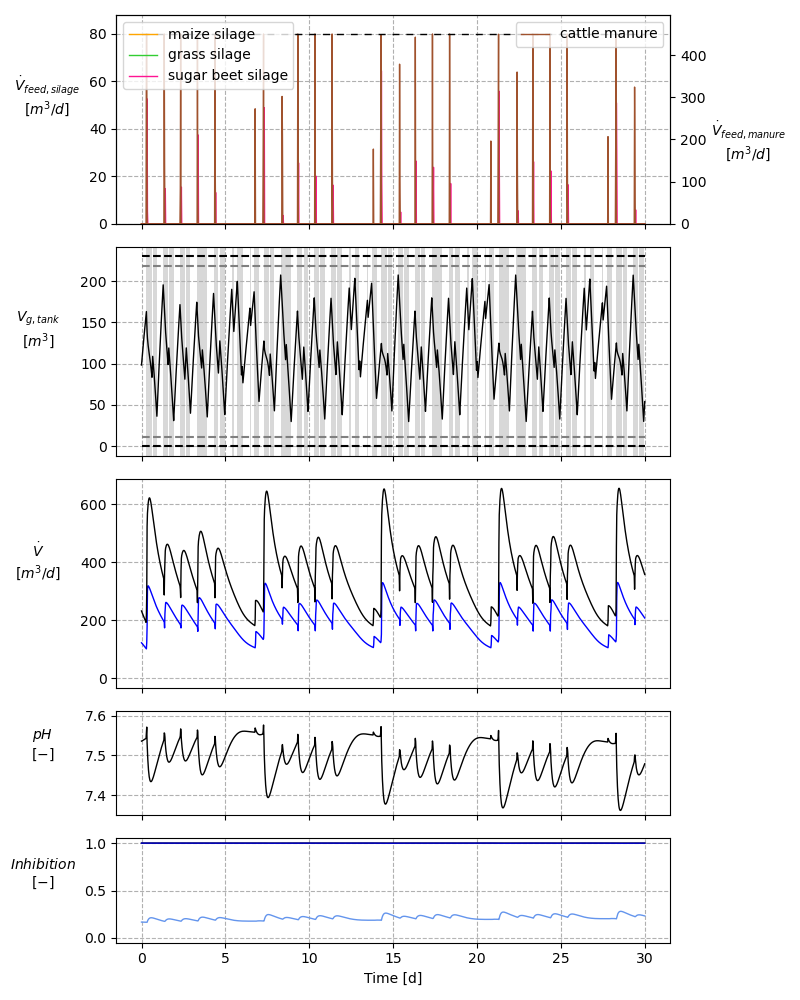
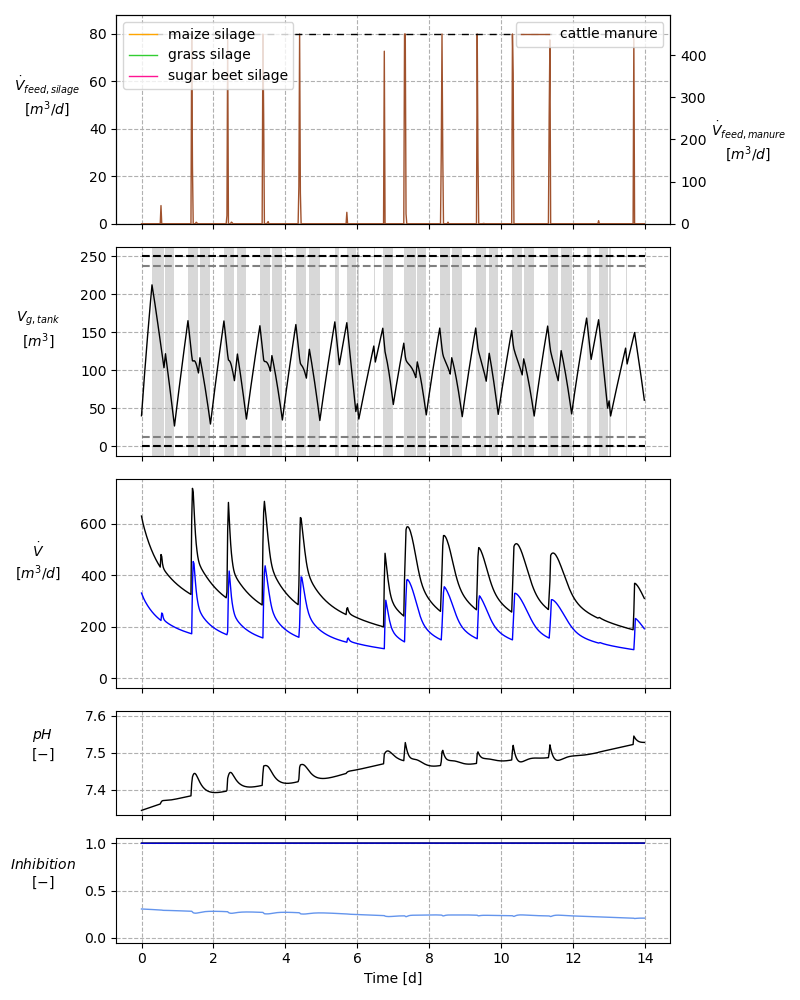
get Sc. 2a nominal ideal running with high OLR from SS

diff --git a/ad_meal_prep_control/scenarios/scenario_2a_nominal_ideal.py b/ad_meal_prep_control/scenarios/scenario_2a_nominal_ideal.py
@@ -10,8 +10,8 @@ from ad_meal_prep_control.params_R3 import P_el_chp
 import numpy as np
 
 fill_level_setpoint = 0.4
-lterm = (f"(0.5*(model.x['x_19'] + model.x['x_20'] + model.aux['V_H2O']/V_GAS_STORAGE_MAX - {fill_level_setpoint})**2 +"
-         f"+ 50*(model.x['x_19'] + model.x['x_20'] + model.aux['V_H2O']/V_GAS_STORAGE_MAX - {fill_level_setpoint})**4)"
+lterm = (f"(5*(model.x['x_19'] + model.x['x_20'] + model.aux['V_H2O']/V_GAS_STORAGE_MAX - {fill_level_setpoint})**2 +"
+         f"+ 5e-1 *(model.x['x_19'] + model.x['x_20'] + model.aux['V_H2O']/V_GAS_STORAGE_MAX - {fill_level_setpoint})**4)"
          )
 
 mterm = "model.tvp['dummy_tvp']"
@@ -19,12 +19,12 @@ mterm = "model.tvp['dummy_tvp']"
 cost_func = CostFunction(lterm=lterm, mterm=mterm)
 
 # user input:
-n_days_mpc = 30  # length of simulation [d]
+n_days_mpc = 14  # length of simulation [d]
 n_std_dev = 0  # number std deviations
 t_stp_ahead_pred = 8  # for controller plotting
 
 controller_params = ControllerParams(
-    mpc_n_horizon=40,
+    mpc_n_horizon=48,
     mpc_n_robust=0,
     num_std_devs=n_std_dev,
     cost_func=cost_func,

diff --git a/ad_meal_prep_control/mpc.py b/ad_meal_prep_control/mpc.py
@@ -83,7 +83,7 @@ def mpc_setup(
                     for dictated_sub in dictated_sub_properties:
                         start_time = dictated_sub[0]
                         end_time = dictated_sub[1]
-                        feed_amount = dictated_sub[2]
+                        feed_amount = dictated_sub[2]  # __SH: normalized
 
                         time_k = t_now + t_step * k
                         if time_k >= start_time and time_k < end_time:
@@ -197,7 +197,7 @@ def mpc_setup(
         if rterm is None:
             rterm = sub_cost_rterm  # only consider substrate costs in rterm
         else:
-            rterm += f" + {sub_cost_rterm}"  # consider substrate cost additionally in rterm
+            rterm += f" + {sub_cost_rterm}"  # add substrate cost to existing rterm
 
     if rterm is not None:
         mpc.set_rterm(rterm=eval(rterm))

diff --git a/ad_meal_prep_control/simulation.py b/ad_meal_prep_control/simulation.py
@@ -172,7 +172,7 @@ class Simulation:
             self._substrate_setup()
             self._model_setup()
 
-            # GS is super full in SS since no CHP outflow considered. Hence use pre-saved values:
+            # __SH: GS is super full in SS since no CHP outflow considered -> use pre-saved values for norm. GS states:
             if self.scenario.external_gas_storage_model:
                 self.x0_norm_true[18] = self._v_ch4_norm_true_0
                 self.x0_norm_true[19] = self._v_co2_norm_true_0

diff --git a/ad_meal_prep_control/simulator.py b/ad_meal_prep_control/simulator.py
@@ -42,7 +42,7 @@ def simulator_setup(
                 for dictated_sub in dictated_sub_properties:
                     start_time = dictated_sub[0]
                     end_time = dictated_sub[1]
-                    feed_amount = dictated_sub[2]
+                    feed_amount = dictated_sub[2]  # __SH: normalized
                     if t_now >= start_time and t_now < end_time:
                         tvp_template["dictated_sub_feed", feed_idx] = feed_amount
                         break

diff --git a/ad_meal_prep_control/utils.py b/ad_meal_prep_control/utils.py
@@ -413,8 +413,8 @@ class ScenarioFactory:
             0.0223,
             0.358,
             0.660,
-            0.20 * params_R3.V_GAS_STORAGE_MAX,  # m^3
-            0.20 * params_R3.V_GAS_STORAGE_MAX,  # m^3
+            0.075 * params_R3.V_GAS_STORAGE_MAX,  # m^3
+            0.075 * params_R3.V_GAS_STORAGE_MAX,  # m^3
         ]
     )
 

diff --git a/ad_meal_prep_control/params_R3.py b/ad_meal_prep_control/params_R3.py
@@ -50,4 +50,4 @@ p_norm = p0  # [bar]
 T_norm = 273.15  # [K]
 T_gas_storage = 323.15  # [K]
 P_el_chp = 50.0  # kW
-V_GAS_STORAGE_MAX = 230  # m3
+V_GAS_STORAGE_MAX = 250  # m3
